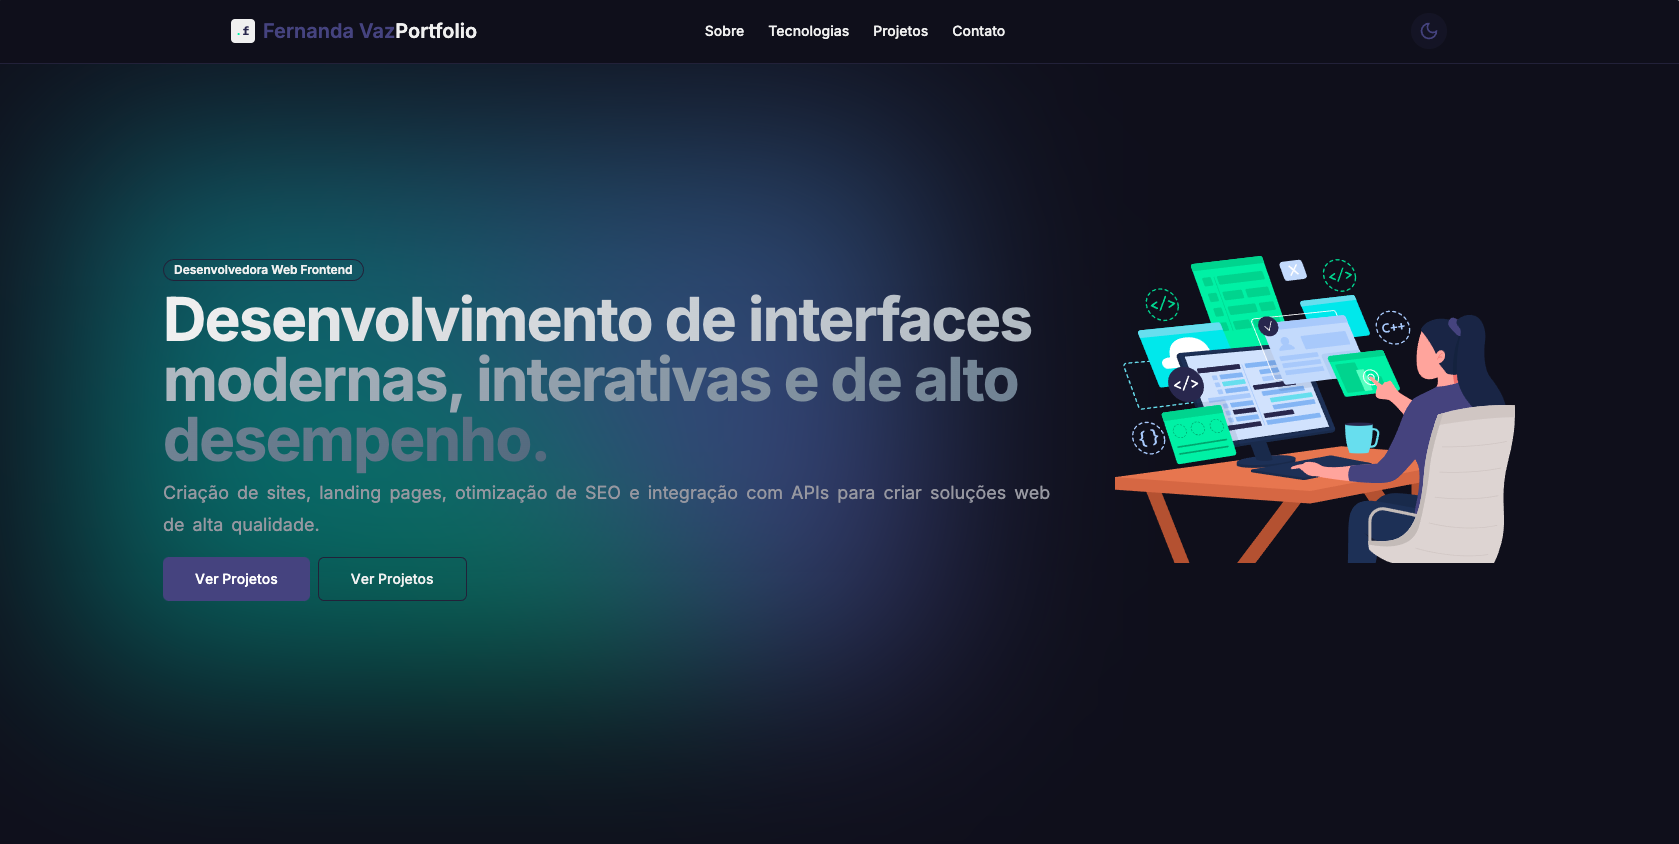
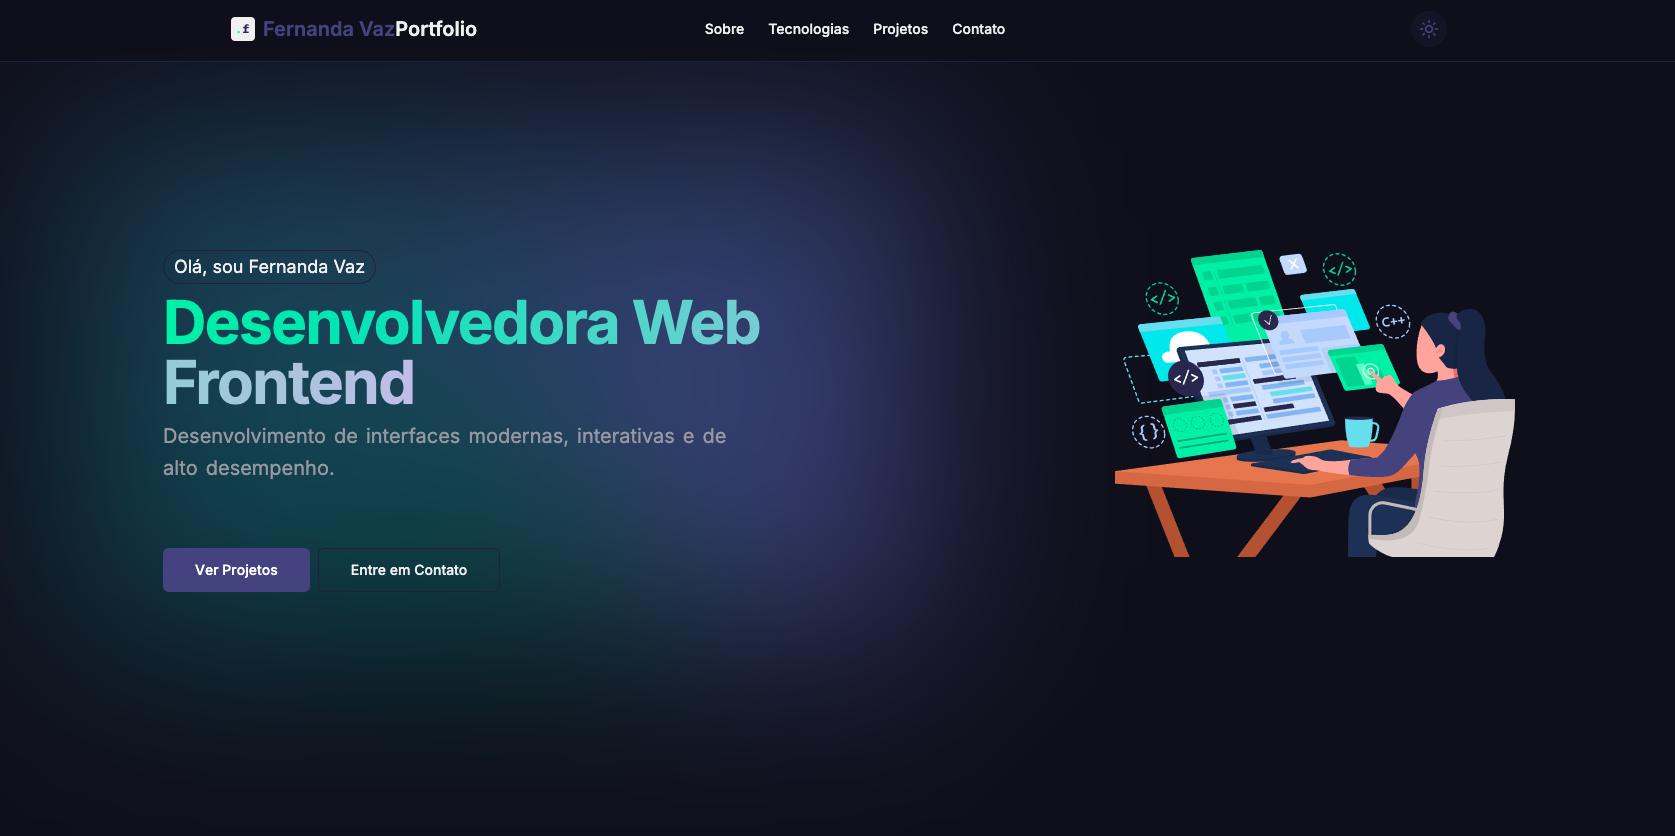
correcao hero

diff --git a/components/hero.tsx b/components/hero.tsx
@@ -19,21 +19,21 @@ export default function HeroSection({ about }: HeroProps) {
         <span className='blob size-1/2 absolute top-20 left-20 blur-[100px] -z-10 opacity-50' />
       </Transition>
       <div className='container px-4 md:px-6'>
-        <div className='grid gap-6 lg:grid-cols-[1fr_400px] lg:gap-12'>
-          <div className='flex flex-col justify-center space-y-4'>
-            <div className='space-y-2'>
+        <div className='grid gap-6 lg:grid-cols-[1fr_400px] lg:gap-20'>
+          <div className='flex flex-col justify-center space-y-4 gap-12'>
+            <div className='space-y-2 flex flex-col '>
               <Transition>
-                <Badge className='inline-flex' variant='outline'>
-                  {about.badge}
+                <Badge className='inline-flex text-lg font-normal' variant='outline'>
+                  Olá, sou {about.name} 
                 </Badge>
               </Transition>
               <motion.h1
-                className='mt-10 text-4xl font-bold tracking-tight text-primary sm:text-6xl'
+                className='mt-10 text-4xl font-bold tracking-tight text-primary sm:text-6xl max-w-[800px] text-wrap'
                 initial={{ opacity: 0, y: 20 }}
                 animate={{ opacity: 1, y: 0 }}
                 transition={{ duration: 0.8 }}
               >
-                <span className='text-gradient'>{about.title}</span>
+                <span className='text-gradient'>{about.badge}</span>
               </motion.h1>
               {/* <motion.p
                 className='mt-6 text-lg leading-8 text-muted-foreground'
@@ -47,10 +47,10 @@ export default function HeroSection({ about }: HeroProps) {
                 initial={{ opacity: 0, y: 20 }}
                 animate={{ opacity: 1, y: 0 }}
                 transition={{ duration: 0.8, delay: 0.2 }}
-                className='text-start max-w-[1200px] mt-6 text-lg leading-8 text-muted-foreground' 
+                className='text-start max-w-[600px] mt-6 text-xl/relaxed leading-8 text-muted-foreground' 
               >
                 <MotionAnimatedText>
-                  {about.subtitle}
+                  {about.title}
                 </MotionAnimatedText>
               </motion.div>
 

diff --git a/app/globals.css b/app/globals.css
@@ -88,11 +88,11 @@
 }
 
 .text-gradient {
-  @apply bg-clip-text text-transparent bg-gradient-to-r from-foreground to-slate-500;
+  @apply bg-clip-text text-transparent bg-gradient-to-r from-secondary to-accent-foreground;
 }
 
 .hover-lift {
-  @apply transition-all duration-300 ease-in-out hover:-translate-y-1 hover:shadow-lg;
+  @apply transition-all duration-300 ease-in-out hover:-translate-y-1 hover:shadow-lg hover:duration-300;
 }
 
 html {
@@ -100,5 +100,5 @@ html {
 }
 
 .blob {
-  background: conic-gradient(from 2.35rad, #57f2aa, rgb(129 114 228));
+  background: conic-gradient(from 2.35rad, rgb(87, 242, 170, 0.5), rgb(129 114 228));
 }

diff --git a/components/ui/transitions.tsx b/components/ui/transitions.tsx
@@ -173,7 +173,7 @@ export const MotionAnimatedText = ({ children }: { children: string }) => {
       {words.map((word, i) => (
         <motion.span
           key={i}
-          initial={{ opacity: 0.3 }}
+          initial={{ opacity: 0.1 }}
           whileInView={{ opacity: 1 }}
           transition={{
             delay: i * 0.08,
